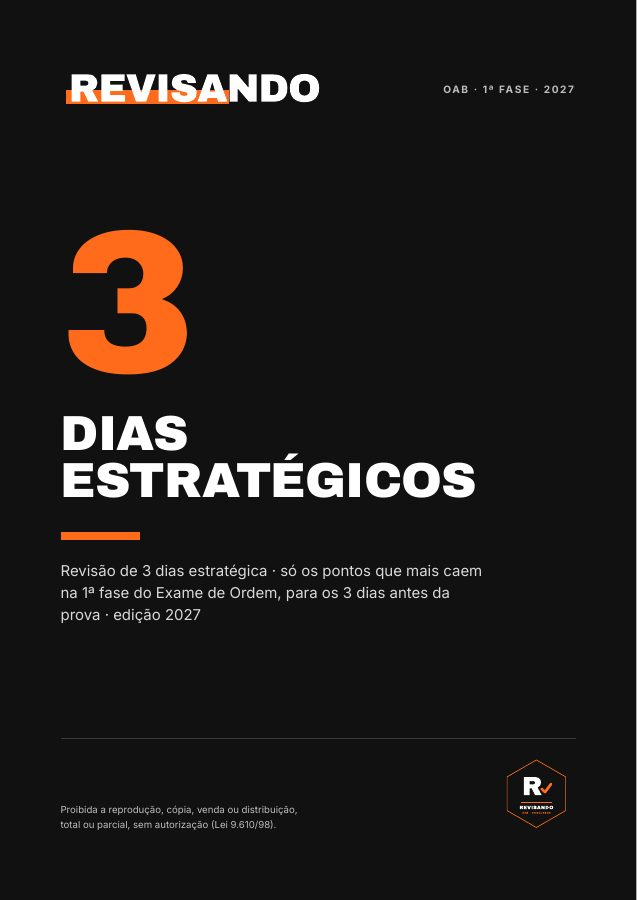
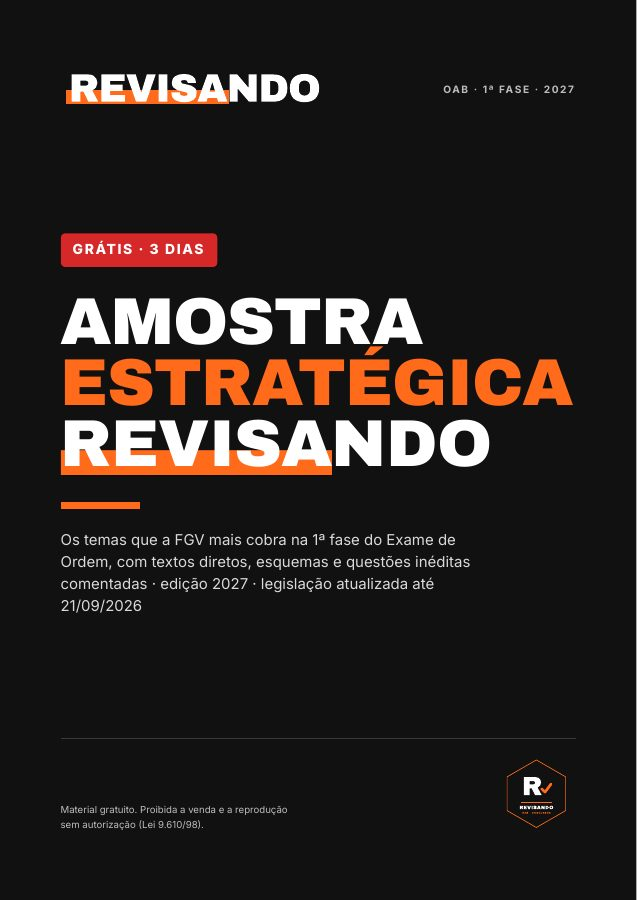
Amostra estratégica: páginas, dias e textos de acordo com o PDF novo; capa nova na landing
Claude-Session: https://claude.ai/code/session_01Gqe1z1yWA4BjZq3uE79fR1

Changed region(s): [[0.0895, 0.2489, 0.8948, 0.7156], [0.0895, 0.8711, 0.4474, 0.9333]]

diff --git a/public/landing/index.html b/public/landing/index.html
@@ -259,13 +259,13 @@
       <div class="isca-texto">
         <span class="selo-gratis"><svg viewBox="0 0 24 24" aria-hidden="true" class="ico-zap"><path fill="currentColor" d="M17.472 14.382c-.297-.149-1.758-.867-2.03-.967-.273-.099-.471-.148-.67.15-.197.297-.767.966-.94 1.164-.173.199-.347.223-.644.075-.297-.15-1.255-.463-2.39-1.475-.883-.788-1.48-1.761-1.653-2.059-.173-.297-.018-.458.13-.606.134-.133.298-.347.446-.52.149-.174.198-.298.298-.497.099-.198.05-.371-.025-.52-.075-.149-.669-1.612-.916-2.207-.242-.579-.487-.5-.669-.51-.173-.008-.371-.01-.57-.01-.198 0-.52.074-.792.372-.272.297-1.04 1.016-1.04 2.479 0 1.462 1.065 2.875 1.213 3.074.149.198 2.096 3.2 5.077 4.487.709.306 1.262.489 1.694.625.712.227 1.36.195 1.871.118.571-.085 1.758-.719 2.006-1.413.248-.694.248-1.289.173-1.413-.074-.124-.272-.198-.57-.347m-5.421 7.403h-.004a9.87 9.87 0 0 1-5.031-1.378l-.361-.214-3.741.982.998-3.648-.235-.374a9.86 9.86 0 0 1-1.51-5.26c.001-5.45 4.436-9.884 9.888-9.884 2.64 0 5.122 1.03 6.988 2.898a9.825 9.825 0 0 1 2.893 6.994c-.003 5.45-4.437 9.884-9.885 9.884m8.413-18.297A11.815 11.815 0 0 0 12.05 0C5.495 0 .16 5.335.157 11.892c0 2.096.547 4.142 1.588 5.945L.057 24l6.305-1.654a11.882 11.882 0 0 0 5.683 1.448h.005c6.554 0 11.89-5.335 11.893-11.893a11.821 11.821 0 0 0-3.48-8.413Z"/></svg> Amostra grátis no seu WhatsApp</span>
         <h2>Experimente 3 dias do Revisando</h2>
-        <p class="lead">Os pontos mais importantes das 12 matérias que mais caem na 1ª fase, em 3 dias, com os mesmos ★ pontos estratégicos, gatilhos, duelos e questões comentadas da revisão completa. Faça quando quiser e comprove o método.</p>
+        <p class="lead">Os temas que a FGV mais cobra, um por matéria, explicados do jeito que estão na revisão completa: ★ pontos estratégicos, esquemas, gatilhos, duelos e questões inéditas comentadas. Use quando quiser e comprove o método.</p>
         <div class="isca-capa">
-          <img src="/landing/img/capa-3-dias.jpg" alt="Capa da amostra grátis de 3 dias do Revisando" width="637" height="900" loading="lazy">
+          <img src="/landing/img/capa-3-dias.jpg" alt="Capa da Amostra estratégica Revisando" width="637" height="900" loading="lazy">
           <ul class="isca-lista">
-            <li><b>Dia 1</b> Ética, Constitucional, Civil e Processo Civil</li>
-            <li><b>Dia 2</b> Penal, Processo Penal, Administrativo e Tributário</li>
-            <li><b>Dia 3</b> Trabalho, Processo do Trabalho, Empresarial e outros pontos que mais caem</li>
+            <li><b>Dia 1</b> Ética e Constitucional</li>
+            <li><b>Dia 2</b> Penal, Processo Penal e Civil</li>
+            <li><b>Dia 3</b> Processo Civil, Administrativo e Trabalho</li>
           </ul>
         </div>
       </div>

diff --git a/app/api/isca/route.ts b/app/api/isca/route.ts
@@ -14,7 +14,7 @@ function legendaAmostra(nome: string) {
   return [
     `Olá, ${nome.split(" ")[0]}! Boas-vindas ao *Revisando*.`,
     "",
-    "Esta é a sua amostra grátis: os pontos mais importantes das 12 matérias que mais caem na 1ª fase, em 3 dias, para fazer quando quiser. É o mesmo método das nossas revisões de 30 e 15 dias, montadas a partir do que a FGV mais cobra.",
+    "Esta é a sua Amostra estratégica: em 3 dias, os temas que a FGV mais cobra, um por matéria, para estudar quando quiser. É o mesmo método das nossas revisões de 30 e 15 dias, montadas a partir do que mais cai na prova.",
     "",
     "Bons estudos!",
   ].join("\n");
@@ -70,7 +70,7 @@ export async function POST(req: NextRequest) {
     if (up.error) throw up.error;
     const { data: url, error: e2 } = await storage.createSignedUrl(destino, 60 * 60 * 24 * 7);
     if (e2 || !url) throw e2 ?? new Error("falha ao assinar URL");
-    const arquivo = "Revisando - Amostra gratis - 3 dias - OAB 2027.pdf";
+    const arquivo = "Revisando - Amostra estrategica - 2027.pdf";
     const zappfy = configZappfy();
     if (zappfy) {
       await enviarZappfy(zappfy, "documento", {
